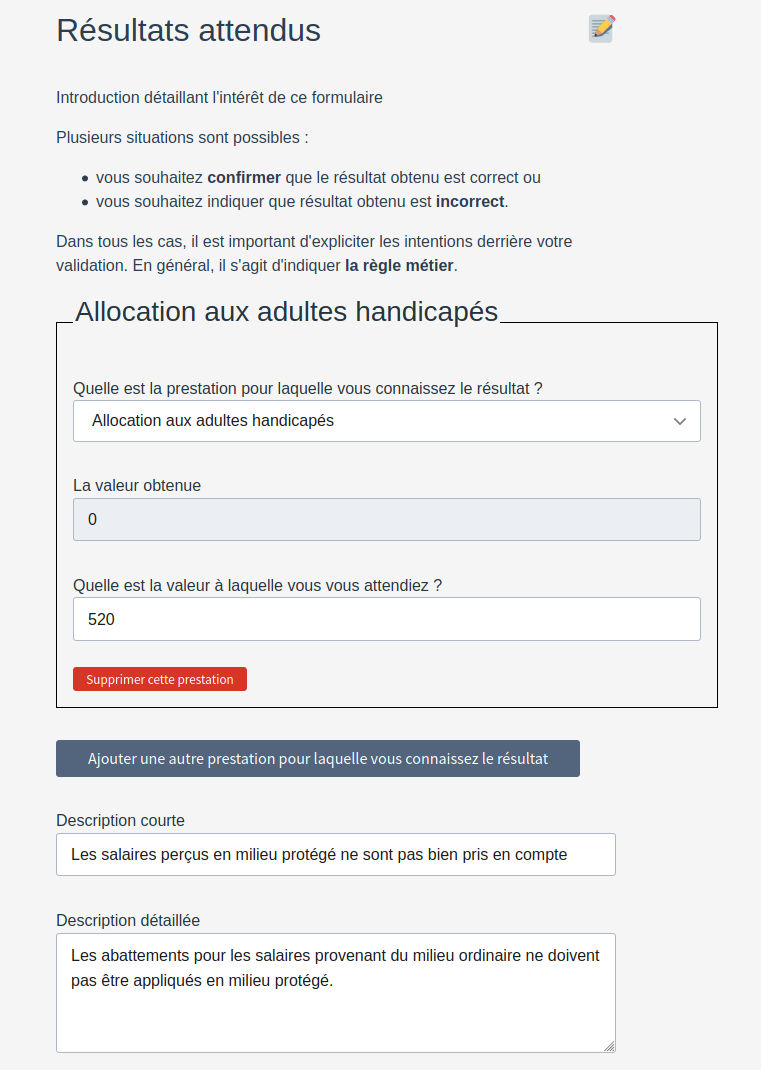
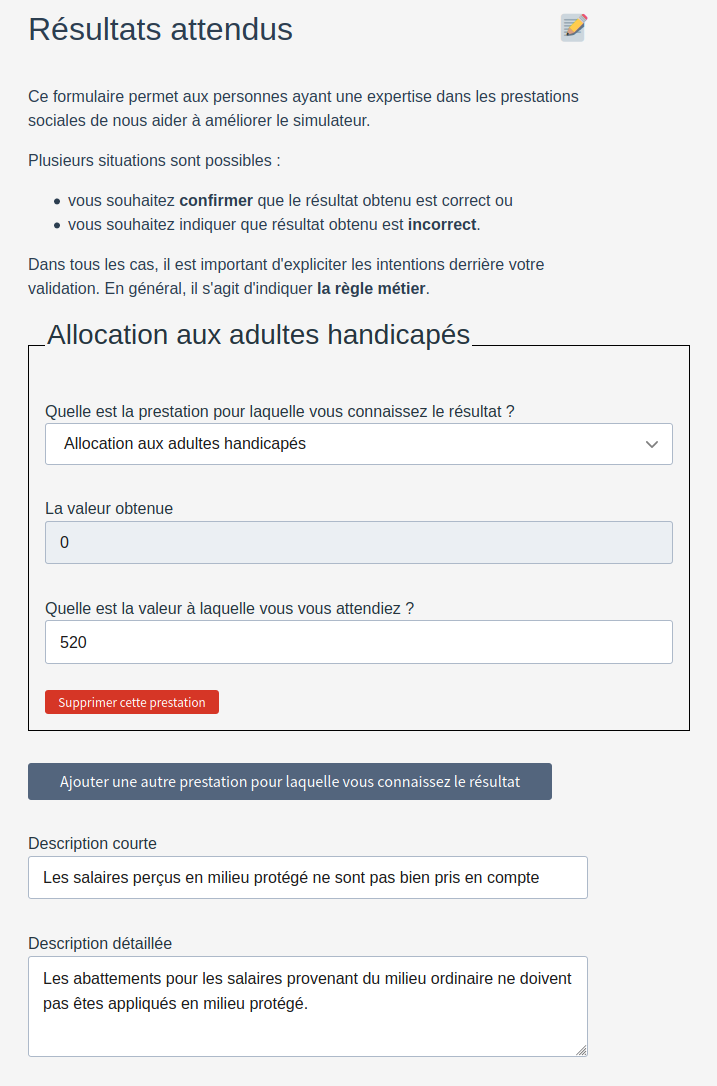
Réécrit l'article sur les experts métiers

diff --git a/content/_posts/2020-02-05-mes-aides-experts.md b/content/_posts/2020-02-05-mes-aides-experts.md
@@ -36,9 +36,12 @@ Avec l'amélioration continue faite sur le moteur de calculs, ces fichiers Excel
 
 Pour enlever le maximum d'ambiguïtés de ce genre, nous avons pensé que Mes Aides pouvait aussi être utilisé pour décrire les situations de tests c'est à dire les situations pour lesquelles les experts métiers connaissent les résultats attendus.
 
+
+Nous avons donc créé un formulaire qui permet aux personnes ayant une expertise dans les prestations sociales de nous aider à améliorer le simulateur. En voiçi une capture d'écran&nbsp;:
+
 ![Capture de l'écran de saisie à destination des experts leur permettant d'indiquer les valeurs attendus et le contexte légal](/img/posts/2020-02-06-mes-aides-experts/Capture_resultats_attendus.png)
 
-Avec les informations saisies dans ce formulaire, nous pouvons avoir des conversations qui contiennent une part d'implicite beaucoup plus petite. Dans ce cas là, le simulateur apparaît comme formidable outil de médiation pour faire le lien entre des experts métiers et l'équipe qui améliore le moteur de règles.
+Avec les informations saisies dans ce formulaire, nous pouvons avoir des conversations avec beaucoup moins d'implicite. Dans ce cas là, le simulateur apparaît comme formidable outil de médiation pour faire le lien entre des experts métiers et l'équipe qui améliore le moteur de règles.
 
 
 ### Exploration 🧐
@@ -59,7 +62,7 @@ En rentrant un peu plus dans ces détails-là, on peut échanger avec les expert
 
 ![Capture d'écran des calculs intermédiaires pour la bonification dans la prime d'activité](/img/posts/2020-02-06-mes-aides-experts/tracer_ppa_bonification.png)
 
-Par exemple, ici, on peut voir les données qui permettent de calculer la bonification de la prime d'activité. Pour les personnes curieuses, les valeurs affichées sont à mettre en perspective des formules de calcul de la [`ppa_bonification`](https://github.com/openfisca/openfisca-france/blob/master/openfisca_france/model/prestations/minima_sociaux/ppa.py#L328-L346) et de [`ppa_revenu_activite_individu`](https://github.com/openfisca/openfisca-france/blob/master/openfisca_france/model/prestations/minima_sociaux/ppa.py#L143-L178).
+Par exemple, ici, on peut voir les données qui permettent de calculer [la bonification de la prime d'activité](https://www.service-public.fr/particuliers/vosdroits/F2882). Pour les personnes curieuses, les valeurs affichées sont à mettre en perspective des formules de calcul de la [`ppa_bonification`](https://github.com/openfisca/openfisca-france/blob/master/openfisca_france/model/prestations/minima_sociaux/ppa.py#L328-L346) et de [`ppa_revenu_activite_individu`](https://github.com/openfisca/openfisca-france/blob/master/openfisca_france/model/prestations/minima_sociaux/ppa.py#L143-L178).
 
 Dans ce cas-là, le simulateur apparaît comme formidable outil permettant l'exploration des experts métiers dans l'application des règles de la législation.
 
@@ -68,9 +71,9 @@ Dans ce cas-là, le simulateur apparaît comme formidable outil permettant l'exp
 
 > Analysez l'évolution des aides en fonction des ressources
 
-Enfin, l'été dernier nous avons essayé quelque chose de plus radical. En effet, derrière la mise à disposition de l'information, il y a la volonté d'aider les personnes à faire _des choix de vie informés_. «&nbsp;Qu'est ce qui se passe si je reprends une activité&nbsp;?&nbsp;» cette question fait partie de celles auxquelles nous souhaitons donner une réponse. «&nbsp;À quoi ressemble le filet de sécurité sociale&nbsp;?&nbsp;» en est une autre.
+Enfin, l'été dernier nous avons essayé quelque chose de plus radical. En effet, derrière la mise à disposition de l'information, il y a la volonté d'aider les personnes à faire _des choix de vie informés_. «&nbsp;Qu'est ce qui se passe si je reprends une activité&nbsp;?&nbsp;» fait partie des questions auxquelles nous souhaitons apporter une réponse. «&nbsp;À quoi ressemble le filet de sécurité sociale&nbsp;?&nbsp;» en est une autre.
 
-Avec ces questions en tête nous avons créé un outil permettant de voir comment évoluer les prestations sociales et le revenu disponible en fonction du salaire net. En faisant évoluer le salaire net de 0 à 3&nbsp;000&nbsp;€ par mois il est possible de voir comment les différentes contributions au revenu disponibles évoluent à leur tour.
+Avec ces questions en tête nous avons créé un outil représentant l'évolution des prestations sociales et du revenu disponible en fonction du salaire net. En faisant évoluer le salaire net de 0 à 3&nbsp;000&nbsp;€ par mois il est possible de voir comment les différentes contributions au revenu disponibles évoluent à leur tour.
 
 Pour donner une idée du résultat, nous avons pris des situations spécifiques et mis à disposition les [résultats associés](https://betagouv.github.io/mes-aides-changent/).
 
@@ -80,7 +83,7 @@ Pour donner une idée du résultat, nous avons pris des situations spécifiques 
 
 Le troisième lien sur la page de résultats de Mes Aides permet ainsi d'accéder à un tel graphique pour la situation spécifiée dans le simulateur Mes Aides.
 
-Les simulateurs et les moteurs de règles sous-jacents sont de formidables outils pour les experts et pour mieux observer et rendre accessible la complexité des systèmes socio-fiscaux. Avec cet article, nous avons partagé certaines des pistes que nous avons explorées.
+Pour conclure, les simulateurs et les moteurs de règles sous-jacents sont de formidables outils. Avec cet article, nous avons partagé certaines des pistes que nous avons explorées pour rendre plus accessible la complexité des systèmes socio-fiscaux. 
 
 Vous souhaitez faire une simulation et voir à quoi cela ressemble sur un cas concret&nbsp;? C'est par [ici](https://mes-aides.gouv.fr/foyer/demandeur)&nbsp;!
 
